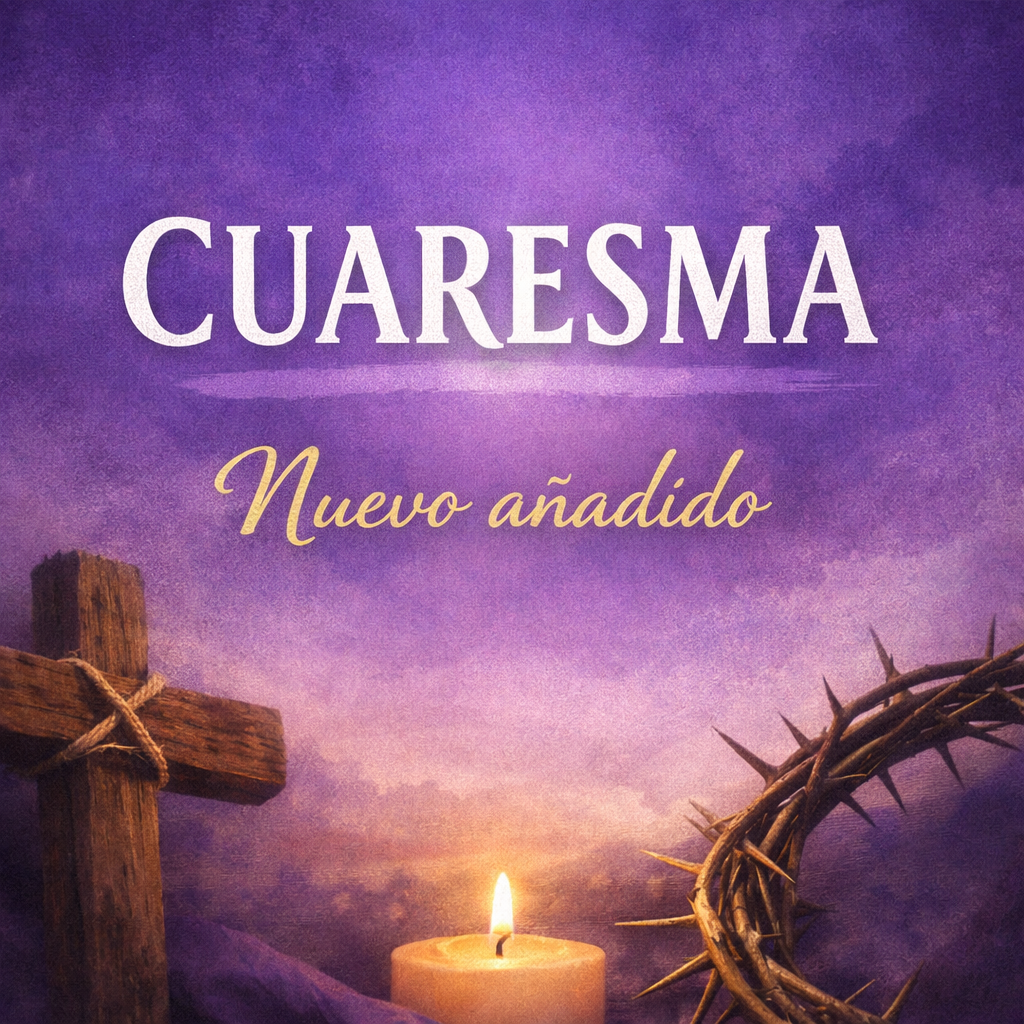
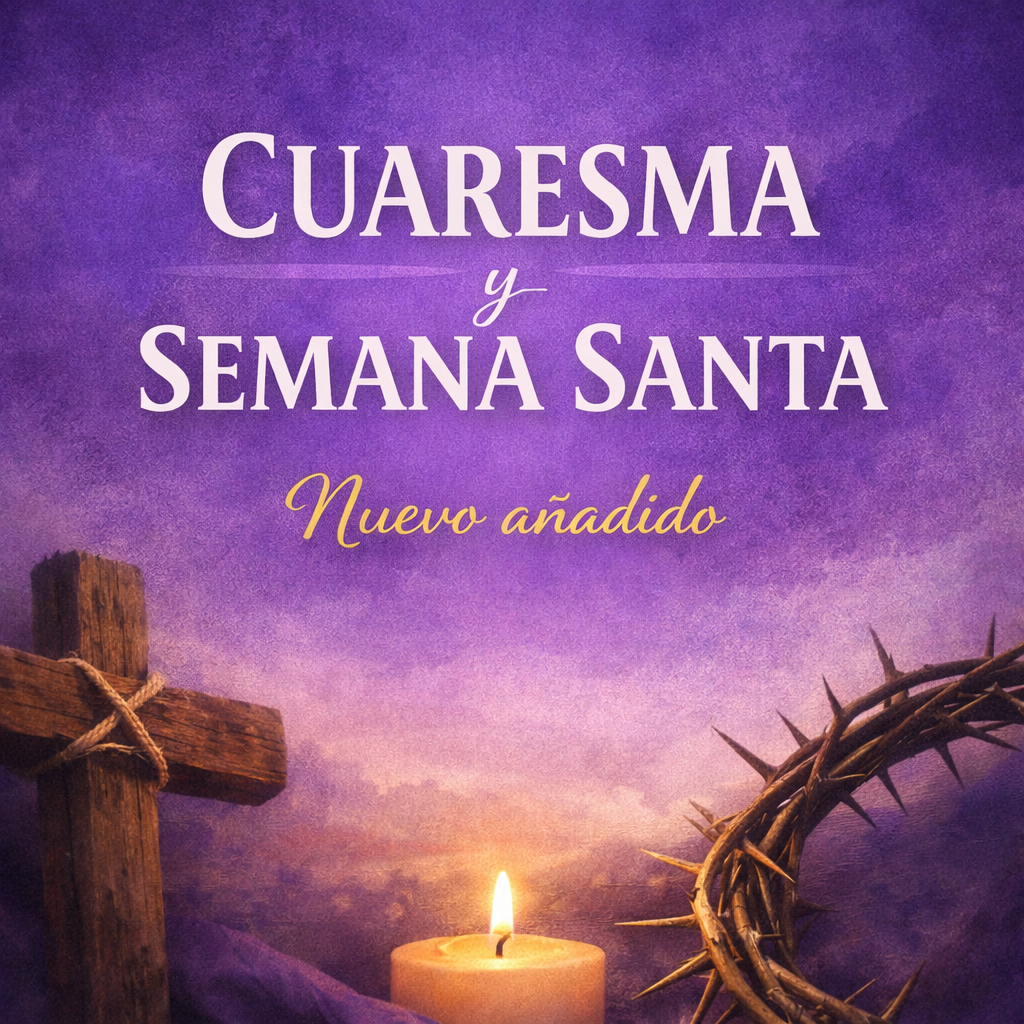
actu sem santa

diff --git a/cuaresma.html b/cuaresma.html
@@ -42,7 +42,7 @@
                     aria-label="Abrir menú">▼</button>
 
                 <ul id="dd-menu-otros" class="dd-menu" hidden>
-                    <li><a href="cuaresma.html">Cuaresma</a></li>
+                    <li><a href="cuaresma.html">Cuaresma y Semana Santa</a></li>
                     <li><a href="rosario.html">El Rosario</a></li>
                     <li><a href="coronillayhorasanta.html">Coronilla – Hora Santa – Liturgia de las Horas</a></li>
                     <li><a href="apps.html">Apps Católicas</a></li>
@@ -56,15 +56,23 @@
     </nav>
 
     <!-- ===== HERO ===== -->
-    <header class="cuaresma-hero">
-        <div class="cuaresma-hero__inner">
-            <span class="cuaresma-badge">TIEMPO DE CONVERSIÓN</span>
-            <h1 class="cuaresma-title">Cuaresma</h1>
-            <p class="cuaresma-subtitle">
-                Un espacio para meditar, orar y prepararnos con más profundidad para la Pascua del Señor.
-            </p>
-        </div>
-    </header>
+<section class="cuaresma-hero">
+  <div class="cuaresma-overlay">
+    <span class="season-badge">TIEMPO LITÚRGICO</span>
+
+    <h1>Cuaresma y Semana Santa</h1>
+
+    <p>
+      Un camino de oración, conversión y preparación para vivir la Pasión,
+      Muerte y Resurrección de Nuestro Señor.
+    </p>
+
+    <a href="#semana-santa" class="hero-btn">
+      ✝ Ver Semana Santa
+    </a>
+  </div>
+</section>
+
 
     <!-- ===== FRASE ===== -->
     <section class="cuaresma-quote">
@@ -159,6 +167,59 @@
                 ordenar el corazón y caminar con más fe, oración y esperanza.
             </p>
         </section>
+
+
+<section id="semana-santa" class="holyweek-section">
+
+  <div class="holyweek-head">
+    <span class="holyweek-badge">SEMANA SANTA</span>
+    <h2>Vivamos el corazón de nuestra fe</h2>
+    <p>
+      Reflexiones, oración y recursos para acompañar cada día santo.
+    </p>
+  </div>
+
+  <div class="holyweek-grid">
+
+    <div class="holy-card">
+      <h3>Domingo de Ramos 🌿</h3>
+      <p>Entrada triunfal de Jesús en Jerusalén.</p>
+    </div>
+
+    <div class="holy-card">
+      <h3>Jueves Santo 🍞</h3>
+      <p>Institución de la Eucaristía y del sacerdocio.</p>
+    </div>
+
+    <div class="holy-card">
+      <h3>Viernes Santo ✝</h3>
+      <p>Pasión y muerte de Nuestro Señor Jesucristo.</p>
+    </div>
+
+    <div class="holy-card">
+      <h3>Sábado Santo 🕯</h3>
+      <p>Silencio, espera y esperanza en la Vigilia Pascual.</p>
+    </div>
+
+    <div class="holy-card holy-card-full">
+      <h3>Domingo de Resurrección ✨</h3>
+      <p>Cristo ha resucitado. Aleluya.</p>
+    </div>
+
+  </div>
+
+</section>
+
+
+
+
+
+
+
+
+
+
+
 
     </main>
 

diff --git a/css/cuaresma.css b/css/cuaresma.css
@@ -294,3 +294,79 @@
     padding: 1.2rem 1rem;
   }
 }
+
+/* =========================
+   SEMANA SANTA
+   ========================= */
+
+.holyweek-section{
+  max-width: 1200px;
+  margin: 4rem auto;
+  padding: 0 1rem;
+}
+
+.holyweek-head{
+  text-align: center;
+  margin-bottom: 2rem;
+}
+
+.holyweek-badge{
+  display: inline-block;
+  padding: .4rem .9rem;
+  border-radius: 999px;
+  background: linear-gradient(90deg,#5e2b86,#7b3fa8);
+  color: white;
+  font-weight: 900;
+  font-size: .75rem;
+  margin-bottom: .8rem;
+}
+
+.holyweek-head h2{
+  font-size: clamp(2rem,1.5rem + 1.5vw,3rem);
+  color: #fff;
+  margin: 0;
+}
+
+.holyweek-head p{
+  color: rgba(255,255,255,.85);
+  font-size: 1.05rem;
+}
+
+/* cards */
+.holyweek-grid{
+  display: grid;
+  grid-template-columns: repeat(auto-fit,minmax(260px,1fr));
+  gap: 1.4rem;
+}
+
+.holy-card{
+  background: rgba(255,255,255,.12);
+  backdrop-filter: blur(8px);
+  border: 1px solid rgba(255,255,255,.18);
+  border-radius: 22px;
+  padding: 1.4rem;
+  box-shadow: 0 18px 40px rgba(0,0,0,.18);
+  transition: transform .25s ease;
+}
+
+.holy-card:hover{
+  transform: translateY(-4px);
+}
+
+.holy-card h3{
+  margin: 0 0 .6rem;
+  color: white;
+  font-size: 1.25rem;
+}
+
+.holy-card p{
+  margin: 0;
+  color: rgba(255,255,255,.9);
+  line-height: 1.6;
+}
+
+.holy-card-full{
+  grid-column: 1 / -1;
+  text-align: center;
+  background: linear-gradient(135deg,#6e2da1,#9c5bd6);
+}

diff --git a/index.html b/index.html
@@ -45,10 +45,10 @@
     <!-- contenido -->
     <div class="popup-content">
       <h2>Nueva sección disponible</h2>
-      <p>Hemos añadido un espacio especial para vivir la Cuaresma.</p>
+      <p>Hemos añadido un espacio especial para vivir la Cuaresma y Semana Santa.</p>
 
       <a href="cuaresma.html" class="popup-btn">
-        ▶ Ir a Cuaresma
+        ▶ Ir a Cuaresma y Semana Santa
       </a>
     </div>
 
@@ -106,7 +106,7 @@
         </button>
 
         <ul id="dd-menu-otros" class="dd-menu" hidden>
-          <li><a href="cuaresma.html">Cuaresma</a></li>
+                    <li><a href="cuaresma.html">Cuaresma y Semana Santa</a></li>
           <li><a href="rosario.html">El Rosario</a></li>
           <li><a href="coronillayhorasanta.html">Coronilla</a></li>
           <li><a href="apps.html">Apps Católicas</a></li>

diff --git a/canales.html b/canales.html
@@ -43,7 +43,7 @@
         <button class="dd-trigger" type="button" aria-expanded="false" aria-controls="dd-menu-otros"
           aria-label="Abrir menú">▾</button>
         <ul id="dd-menu-otros" class="dd-menu" hidden>
-                    <li><a href="cuaresma.html">Cuaresma</a></li>
+                    <li><a href="cuaresma.html">Cuaresma y Semana Santa</a></li>
           <li><a href="rosario.html">El Rosario</a></li>
           <li><a href="coronillayhorasanta.html">Coronilla – Hora Santa – Liturgia de las Horas</a></li>
           <li><a href="apps.html">Apps Católicas</a></li>

diff --git a/coronillayhorasanta.html b/coronillayhorasanta.html
@@ -41,7 +41,7 @@
         <button class="dd-trigger" type="button" aria-expanded="false" aria-controls="dd-menu-otros"
           aria-label="Abrir menú">▾</button>
         <ul id="dd-menu-otros" class="dd-menu" hidden>
-                    <li><a href="cuaresma.html">Cuaresma</a></li>
+                    <li><a href="cuaresma.html">Cuaresma y Semana Santa</a></li>
           <li><a href="rosario.html">El Rosario</a></li>
           <li><a href="coronillayhorasanta.html">Coronilla – Hora Santa – Liturgia de las Horas</a></li>
           <li><a href="apps.html">Apps Católicas</a></li>

diff --git a/apps.html b/apps.html
@@ -42,7 +42,7 @@
       <button class="dd-trigger" type="button" aria-expanded="false" aria-controls="dd-menu-otros"
         aria-label="Abrir menú">▾</button>
       <ul id="dd-menu-otros" class="dd-menu" hidden>
-                  <li><a href="cuaresma.html">Cuaresma</a></li>
+                    <li><a href="cuaresma.html">Cuaresma y Semana Santa</a></li>
         <li><a href="rosario.html">El Rosario</a></li>
         <li><a href="coronillayhorasanta.html">Coronilla – Hora Santa – Liturgia de las Horas</a></li>
         <li><a href="apps.html">Apps Católicas</a></li>

diff --git a/catecismo.html b/catecismo.html
@@ -48,7 +48,7 @@
       <button class="dd-trigger" type="button" aria-expanded="false" aria-controls="dd-menu-otros"
         aria-label="Abrir menú">▾</button>
       <ul id="dd-menu-otros" class="dd-menu" hidden>
-                  <li><a href="cuaresma.html">Cuaresma</a></li>
+                    <li><a href="cuaresma.html">Cuaresma y Semana Santa</a></li>
         <li><a href="rosario.html">El Rosario</a></li>
         <li><a href="coronillayhorasanta.html">Coronilla – Hora Santa – Liturgia de las Horas</a></li>
         <li><a href="apps.html">Apps Católicas</a></li>

diff --git a/jovenes.html b/jovenes.html
@@ -42,7 +42,7 @@
       <button class="dd-trigger" type="button" aria-expanded="false" aria-controls="dd-menu-otros"
         aria-label="Abrir menú">▾</button>
       <ul id="dd-menu-otros" class="dd-menu" hidden>
-                  <li><a href="cuaresma.html">Cuaresma</a></li>
+                    <li><a href="cuaresma.html">Cuaresma y Semana Santa</a></li>
         <li><a href="rosario.html">El Rosario</a></li>
         <li><a href="coronillayhorasanta.html">Coronilla – Hora Santa – Liturgia de las Horas</a></li>
         <li><a href="apps.html">Apps Católicas</a></li>

diff --git a/noticias.html b/noticias.html
@@ -44,7 +44,7 @@
       <button class="dd-trigger" type="button" aria-expanded="false" aria-controls="dd-menu-otros"
         aria-label="Abrir menú">▾</button>
       <ul id="dd-menu-otros" class="dd-menu" hidden>
-                  <li><a href="cuaresma.html">Cuaresma</a></li>
+                    <li><a href="cuaresma.html">Cuaresma y Semana Santa</a></li>
         <li><a href="rosario.html">El Rosario</a></li>
         <li><a href="coronillayhorasanta.html">Coronilla – Hora Santa – Liturgia de las Horas</a></li>
         <li><a href="apps.html">Apps Católicas</a></li>

diff --git a/temasfe.html b/temasfe.html
@@ -42,7 +42,7 @@
       <button class="dd-trigger" type="button" aria-expanded="false" aria-controls="dd-menu-otros"
         aria-label="Abrir menú">▾</button>
       <ul id="dd-menu-otros" class="dd-menu" hidden>
-                  <li><a href="cuaresma.html">Cuaresma</a></li>
+                    <li><a href="cuaresma.html">Cuaresma y Semana Santa</a></li>
         <li><a href="rosario.html">El Rosario</a></li>
         <li><a href="coronillayhorasanta.html">Coronilla – Hora Santa – Liturgia de las Horas</a></li>
         <li><a href="apps.html">Apps Católicas</a></li>

diff --git a/biblia.html b/biblia.html
@@ -41,6 +41,7 @@
       <button class="dd-trigger" type="button" aria-expanded="false" aria-controls="dd-menu-otros"
         aria-label="Abrir menú">▾</button>
       <ul id="dd-menu-otros" class="dd-menu" hidden>
+                            <li><a href="cuaresma.html">Cuaresma y Semana Santa</a></li>
         <li><a href="rosario.html">El Rosario</a></li>
         <li><a href="coronillayhorasanta.html">Coronilla – Hora Santa – Liturgia de las Horas</a></li>
         <li><a href="apps.html">Apps Católicas</a></li>

diff --git a/matrimonio.html b/matrimonio.html
@@ -43,6 +43,7 @@
       <button class="dd-trigger" type="button" aria-expanded="false" aria-controls="dd-menu-otros"
         aria-label="Abrir menú">▾</button>
       <ul id="dd-menu-otros" class="dd-menu" hidden>
+                            <li><a href="cuaresma.html">Cuaresma y Semana Santa</a></li>
         <li><a href="rosario.html">El Rosario</a></li>
         <li><a href="coronillayhorasanta.html">Coronilla – Hora Santa – Liturgia de las Horas</a></li>
         <li><a href="apps.html">Apps Católicas</a></li>
